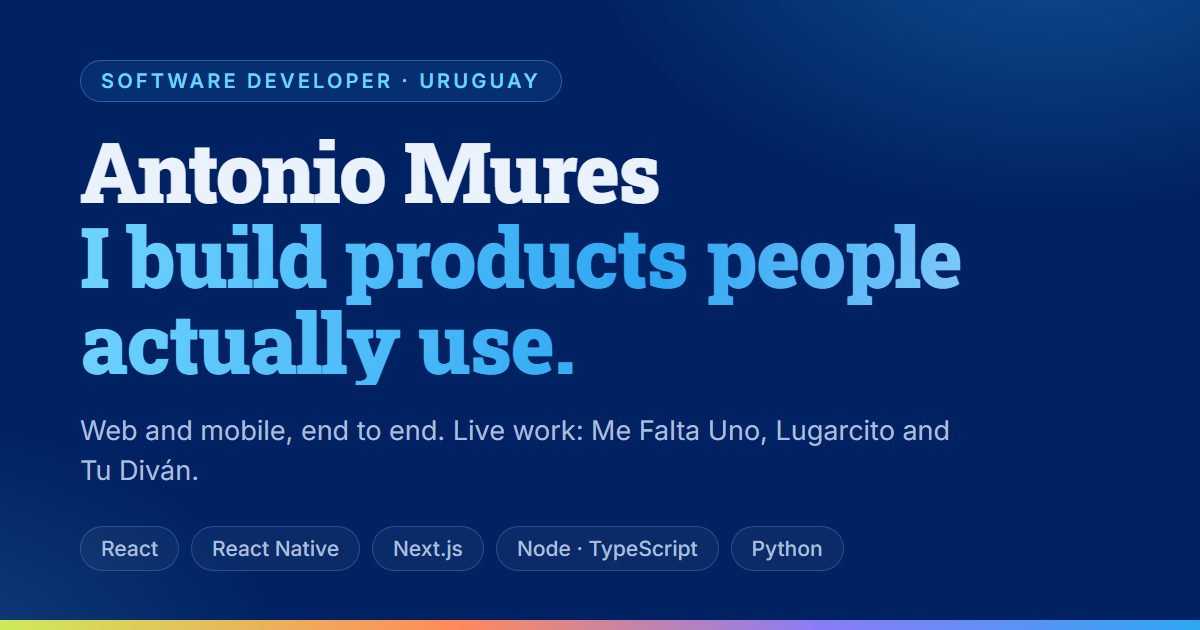
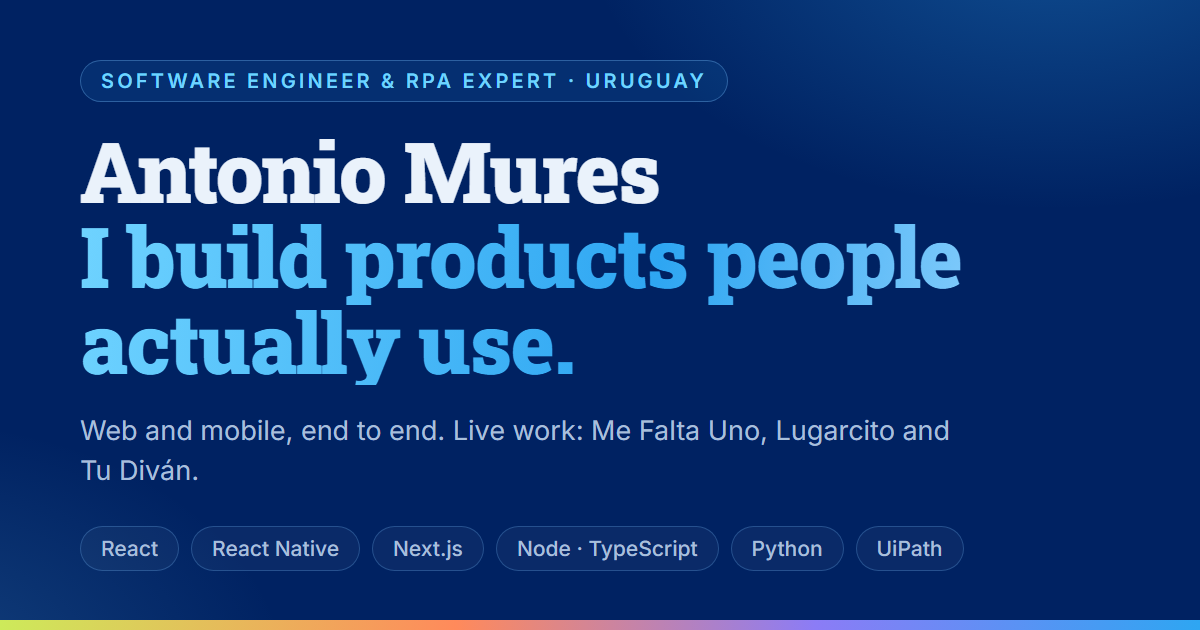
Retitle as Software Engineer & RPA Expert, update the phone number
Title
Changed everywhere it appears: the hero kicker, the page title, the
Open Graph and Twitter titles and descriptions, the image alt text and
the JSON-LD jobTitle. The OG image is regenerated to match.

Added "UiPath · RPA" to the hero stack strip and swapped Python for
UiPath in the meta description, so the claim in the title is backed by
something visible on the page rather than asserted on its own.

Phone
+353 83 487 9683 (Ireland) becomes +598 95 254 671 (Uruguay), in both
the displayed text and the tel: link.

Contact form
Added replyto, so hitting reply in the inbox answers the sender rather
than Web3Forms. The form still needs VITE_WEB3FORMS_ACCESS_KEY set in
Vercel; without it, it shows the fallback pointing at the email address
and sends nothing. Verified in the live bundle before this change:
import.meta.env carried only BASE_URL, MODE, DEV, PROD and SSR.

Claude-Session: https://claude.ai/code/session_018JvM6KN1Fi5m2DnTWfimNy

Changed region(s): [[0.2158, 0.0905, 0.5858, 0.1508], [0.7092, 0.8444, 0.8017, 0.9048]]

diff --git a/index.html b/index.html
@@ -7,29 +7,29 @@
     <link rel="apple-touch-icon" href="/favicon.png" />
     <meta name="theme-color" content="#002262" />
 
-    <title>Antonio Mures · Software Developer</title>
+    <title>Antonio Mures · Software Engineer &amp; RPA Expert</title>
     <meta
       name="description"
-      content="Antonio Mures, software developer building web and mobile products end to end: React, React Native, Node/TypeScript, Next.js and Python. Selected work: Me Falta Uno, Lugarcito and Tu Diván."
+      content="Antonio Mures, software engineer and RPA expert building web and mobile products end to end: React, React Native, Node/TypeScript, Python and UiPath. Selected work: Me Falta Uno, Lugarcito and Tu Diván."
     />
     <link rel="canonical" href="https://antonio-mures.vercel.app/" />
 
     <!-- Open Graph / Twitter -->
     <meta property="og:type" content="website" />
     <meta property="og:site_name" content="Antonio Mures" />
-    <meta property="og:title" content="Antonio Mures · Software Developer" />
+    <meta property="og:title" content="Antonio Mures · Software Engineer &amp; RPA Expert" />
     <meta
       property="og:description"
-      content="Software developer building web and mobile products end to end. Selected work: Me Falta Uno, Lugarcito and Tu Diván."
+      content="Software engineer and RPA expert building web and mobile products end to end. Selected work: Me Falta Uno, Lugarcito and Tu Diván."
     />
     <meta property="og:url" content="https://antonio-mures.vercel.app/" />
     <meta property="og:image" content="https://antonio-mures.vercel.app/og-image.png" />
-    <meta property="og:image:alt" content="Antonio Mures, Software Developer" />
+    <meta property="og:image:alt" content="Antonio Mures, Software Engineer and RPA Expert" />
     <meta name="twitter:card" content="summary_large_image" />
-    <meta name="twitter:title" content="Antonio Mures · Software Developer" />
+    <meta name="twitter:title" content="Antonio Mures · Software Engineer &amp; RPA Expert" />
     <meta
       name="twitter:description"
-      content="Software developer building web and mobile products end to end. Selected work: Me Falta Uno, Lugarcito and Tu Diván."
+      content="Software engineer and RPA expert building web and mobile products end to end. Selected work: Me Falta Uno, Lugarcito and Tu Diván."
     />
     <meta name="twitter:image" content="https://antonio-mures.vercel.app/og-image.png" />
 
@@ -47,7 +47,7 @@
         "@type": "Person",
         "name": "Antonio Mures",
         "url": "https://antonio-mures.vercel.app/",
-        "jobTitle": "Software Developer",
+        "jobTitle": "Software Engineer & RPA Expert",
         "sameAs": [
           "https://github.com/Amures",
           "https://www.linkedin.com/company/am-software-solut1ons"

diff --git a/src/components/Hero.jsx b/src/components/Hero.jsx
@@ -2,14 +2,22 @@ import heroIllustration from '../assets/imgs-hero/nbg-work.svg';
 import { BOOKING_URL } from '../utils/booking';
 import '../assets/styles/Hero.css';
 
-const STACK = ['React', 'React Native', 'Next.js', 'Node · TypeScript', 'Python', 'PostgreSQL'];
+const STACK = [
+  'React',
+  'React Native',
+  'Next.js',
+  'Node · TypeScript',
+  'Python',
+  'UiPath · RPA',
+  'PostgreSQL',
+];
 
 const Hero = () => {
   return (
     <section id="home" className="section hero">
       <div className="container hero__inner">
         <div className="hero__copy">
-          <p className="section-eyebrow">Software developer · Uruguay</p>
+          <p className="section-eyebrow">Software engineer &amp; RPA expert · Uruguay</p>
 
           <h1 className="hero__title">
             Hi, I&apos;m Antonio Mures.

diff --git a/src/components/Contact.jsx b/src/components/Contact.jsx
@@ -4,8 +4,8 @@ import { useReveal } from '../hooks/useReveal';
 import '../assets/styles/Contact.css';
 
 const EMAIL = 'am.softwaresolutions4@gmail.com';
-const PHONE_DISPLAY = '+353 83 487 9683';
-const PHONE_HREF = '+353834879683';
+const PHONE_DISPLAY = '+598 95 254 671';
+const PHONE_HREF = '+59895254671';
 
 const WEB3FORMS_ACCESS_KEY = import.meta.env.VITE_WEB3FORMS_ACCESS_KEY;
 
@@ -61,6 +61,8 @@ const Contact = () => {
         body: JSON.stringify({
           access_key: WEB3FORMS_ACCESS_KEY,
           subject: `Portfolio contact from ${formData.name}`,
+          // Lets you hit reply in your inbox and answer the sender directly.
+          replyto: formData.email,
           ...formData,
         }),
       });
